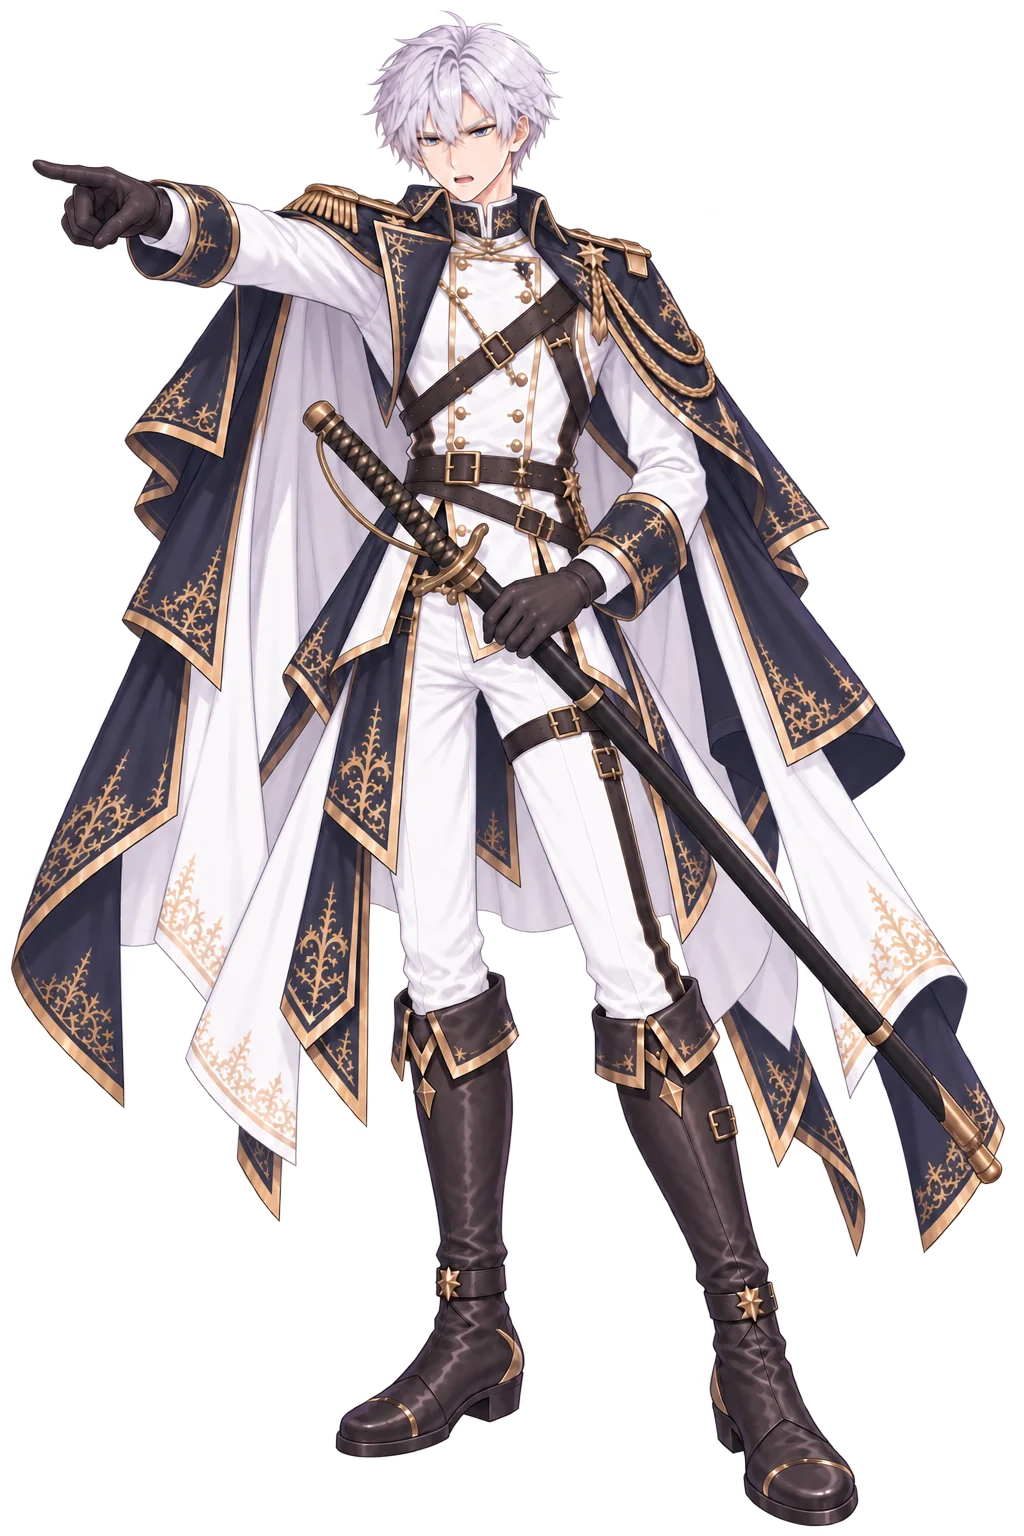
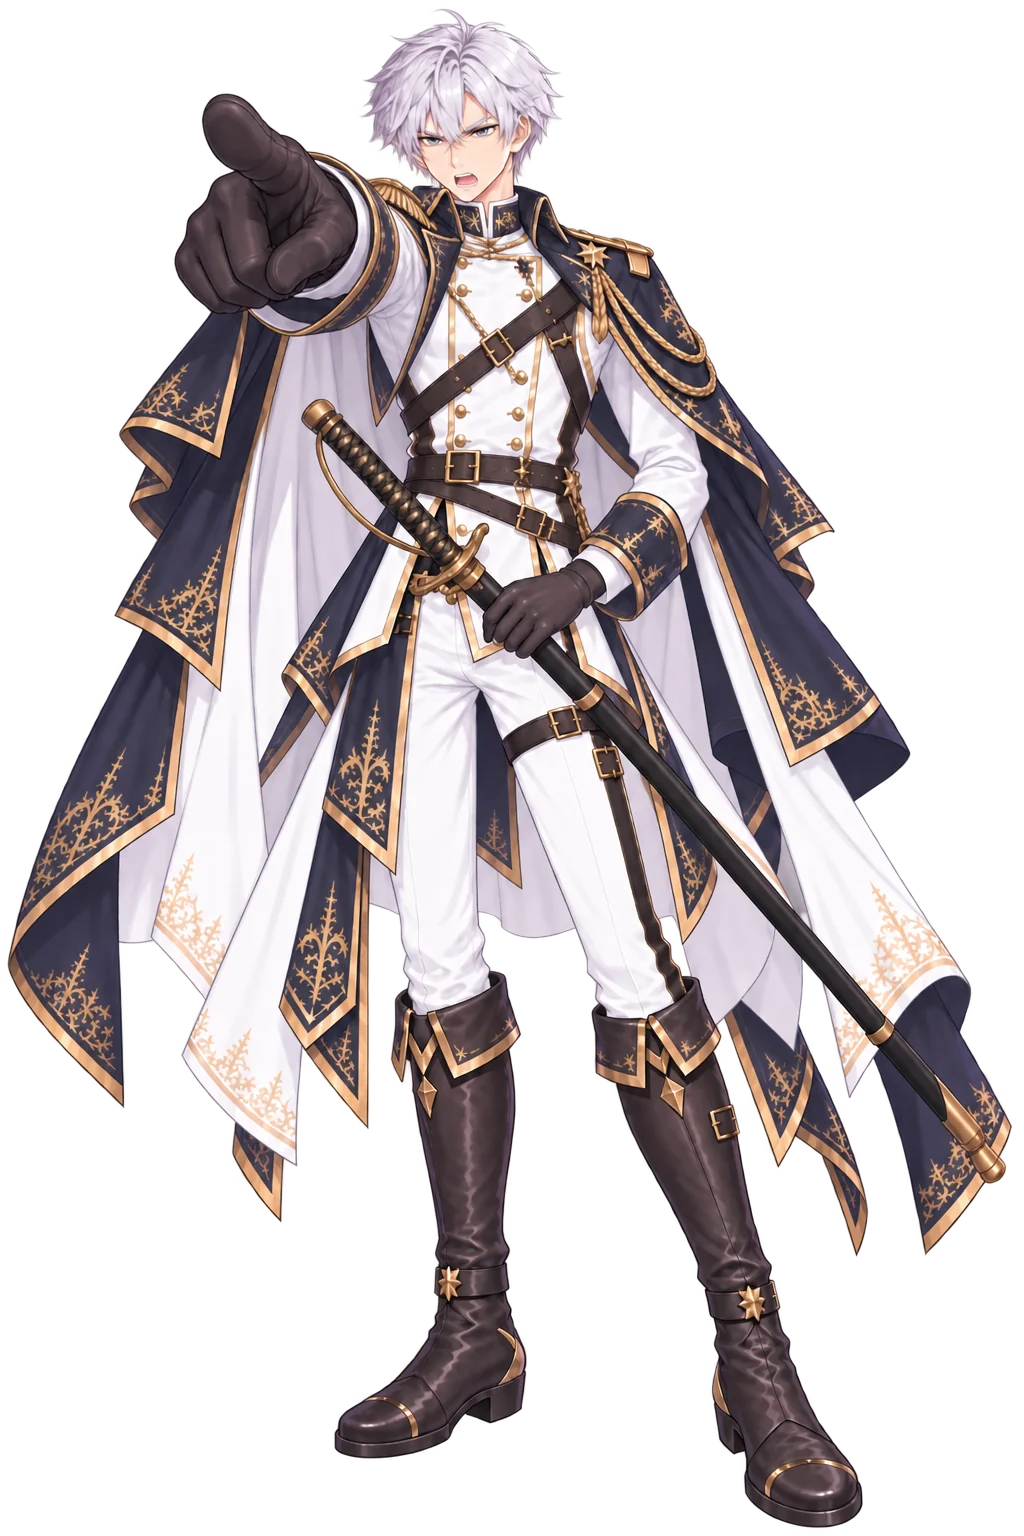
art(米夏): 表情差分 10 張（嘴微張 8、咬牙、微驚）＋ order 強透視重畫 ＋ 背影回頭
只換臉、alpha 逐位元沿用底圖；order／back 為整張新圖。細節與取景在 _misha_program_worklist.md 末段。

diff --git a/resources/si/_misha_program_worklist.md b/resources/si/_misha_program_worklist.md
@@ -81,3 +81,37 @@ GPT 修正、alpha 直出；原 PNG `_originals/si/misha_si_<鍵>_swordfix_src.p
 
 ⚠ 米夏的差分**還沒接進 `speakers.js`**（`expr:{}`），所以不必跳版號；
 但若已經在某台瀏覽器載過舊檔，接的時候直接給 `?v=2` 最保險。
+
+---
+
+## ⭐ 2026-09-23 深夜：再 12 張（10 個新鍵 ＋ `order` 重畫 ＋ 背面）
+
+### A. 表情差分 10 鍵 —— **只換臉、alpha 與底圖逐位元相同** ⇒ 取景**照抄底圖那一列**
+
+GPT 每次都會把整張重畫（頭髮、衣褶、alpha 全部微變），所以不採整張：
+**只把 GPT 版的臉（嘴；咬牙／微驚那兩張含眼眉）貼回原圖**，羽化 2.5 px，alpha 沿用原圖。
+「微張嘴」那一族**刻意只取下半臉** —— `frownopen` 的 GPT 版把眼睛畫成金色，眼睛一律留原圖。
+第二代編碼 q92。GPT 原檔 `_originals/si/misha_si_<鍵>_gptface_src.png`。
+
+| 新鍵 | 底圖 | 演什麼 | 取景 |
+|---|---|---|---|
+| `frontopen` | 本尊 | 嘴微張 | 照本尊（角色層）|
+| `frontgrit` | 本尊 | **憤怒咬牙、仍冷靜**（眉壓低、牙咬合） | 照本尊 |
+| `frontshock` | 本尊 | **嘴閉、微震驚**（眼略睜大） | 照本尊 |
+| `closeopen` | `close` | 閉眼、嘴微張 | 照 `close` |
+| `drawopen` | `draw` | 嘴微張 | 照 `draw` |
+| `frownopen` | `frown` | 嘴微張 | 照 `frown` |
+| `guardopen` | `guard` | 嘴微張 | 照 `guard` |
+| `saluteopen` | `salute` | 嘴微張 | 照 `salute` |
+| `stareopen` | `stare` | 嘴微張 | 照 `stare` |
+| `sideopen` | `side` | 嘴微張 | 照 `side` |
+
+（`order`／`talk`／`wound` 本來就開著嘴，不做。）
+
+### B. `order` 重畫 —— 強透視（Ray：「order 的透視不自然」）
+指人的那隻手朝鏡頭伸來、手放大、前臂透視縮短；臉與刀（一致性基準那一套）照原圖。
+**整張新圖**，舊檔進 `_recycle/`。`top:8, bot:1527`；`fx` 照上表 0.432 不動（頭沒移）。
+
+### C. 新鍵 `back` —— 背影回頭、嘴微張（Ray 交辦）
+背部正對、越肩回頭；刀在左腰（從背後看在畫面左側，方向是對的）。
+`top:12, bot:1496, fx:0.458`（工具量的；⚠ 回頭的臉偏左，**看畫面複核 fx**）。
